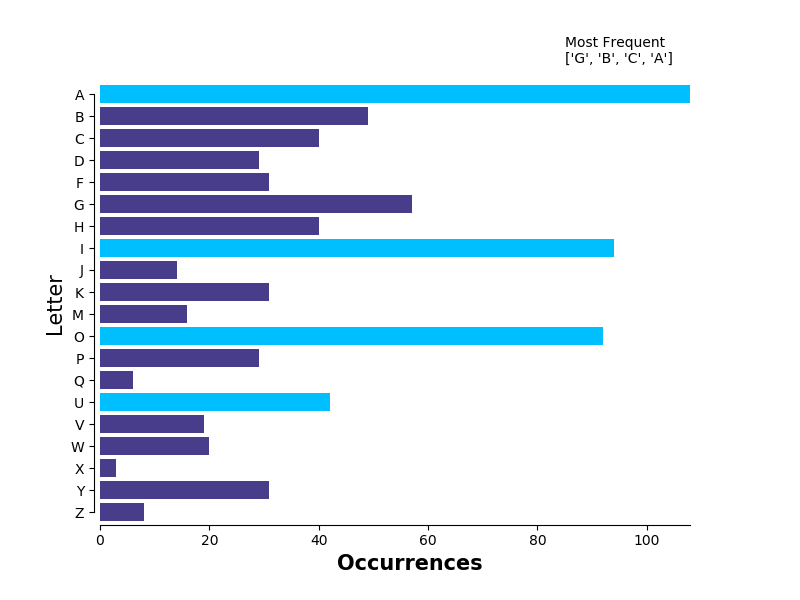
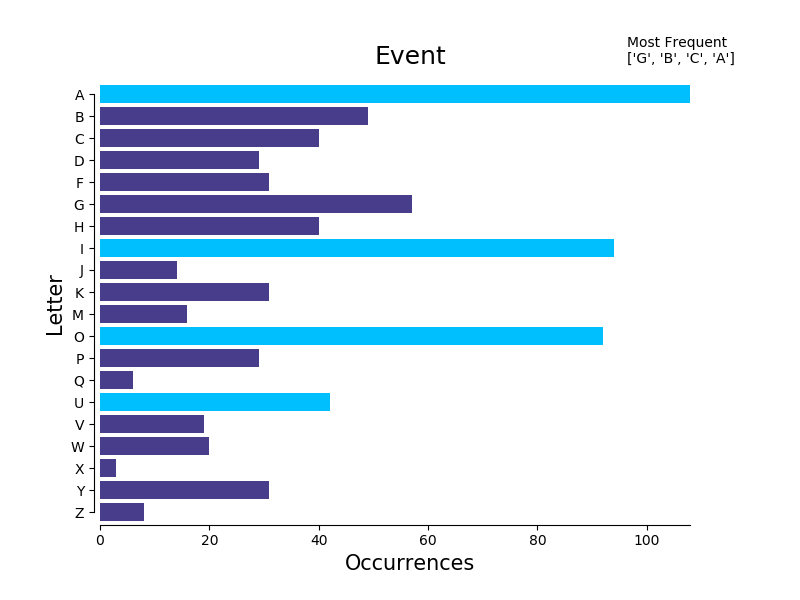
incorporated the letters graph into the main script

Changed region(s): [[0.6875, 0.06, 0.9062, 0.12], [0.4062, 0.93, 0.625, 0.96], [0.4688, 0.06, 0.5625, 0.12]]

diff --git a/analysis.py b/analysis.py
@@ -12,18 +12,18 @@ from collections import Counter
 
 df = pandas.read_csv('./data/clean_angelfire.csv')
 
-def category_occurence():
+def category_occurrence():
   count_list = df['Category'].value_counts()
   series = pandas.Series(count_list)
 
   return series
 
-def guessed_letter_occurence():
+def guessed_letter_occurrence():
   letters = df['Letters'].str.split(" ", n=3, expand=True)
   letters = letters.dropna()
   print(letters.stack().value_counts())
 
-def puzzle_letter_occurence():
+def print_overall_letter_occurrence():
   puzzles = df['Puzzle']
   alphabet = ['A', 'B', 'C', 'D', 'E', 'F', 'G', 'H', 'I', 'J', 'K', 'L', 'M', 'N', 'O', 'P', 'Q', 'R', 'S', 'T', 'U', 'V', 'W', 'X', 'Y', 'Z']
   count_list = []
@@ -31,8 +31,7 @@ def puzzle_letter_occurence():
   for letter in alphabet:
     count_list.append(puzzles.str.count(letter).sum())
 
-  series = pandas.Series(count_list, index=alphabet)
-  return series
+  print_barh_graph(alphabet, count_list, savename="Letters")
 
 def print_barh_graph(keys,values,savename="image.png",most_frequent_l=[]):
   # set the colors of the bars
@@ -55,16 +54,19 @@ def print_barh_graph(keys,values,savename="image.png",most_frequent_l=[]):
   # plot the plot
   plt.barh(keys,values,color=bar_colors)
 
+  # set the title
+  plt.title(savename, fontsize=18)
+
   # hide the top and right spines
   ax.spines['top'].set_visible(False)
   ax.spines['right'].set_visible(False)
 
   # set prettier bounds on y axis
-  ax.set_ylim((-1, 20))
+  ax.set_ylim((-1, len(keys)))
   y_placeholder = list(range(0,len(keys)))
   ax.set_yticks(y_placeholder)
   ax.set_yticklabels(keys)
-  ax.spines['left'].set_bounds(0, 19)
+  ax.spines['left'].set_bounds(0, (len(keys)-1))
 
   # set prettier bounds on x axis
   ax.spines['bottom'].set_smart_bounds(True)
@@ -75,15 +77,13 @@ def print_barh_graph(keys,values,savename="image.png",most_frequent_l=[]):
 
   # if this is a category plot, add a text with the 3 most common consonants and the most common vowel
   if len(most_frequent_l)>0: 
-    plt.text(0.75, 1.02, 'Most Frequent\n' + str(most_frequent_l), transform=plt.gca().transAxes)
+    plt.text(0.85, 1.02, 'Most Frequent\n' + str(most_frequent_l), transform=plt.gca().transAxes)
 
   # invert the axis so A is on top and Z is on the bottom
   plt.gca().invert_yaxis()
 
-  plt.savefig('graphs/'+savename)
-  
-def print_overall_letter_occurence():
-  series = puzzle_letter_occurence()
+  plt.savefig('graphs/'+savename+".png")
+  plt.close()
 
 def get_most_frequent_consonants(counter):
   consonants = ['B','C','D','F','G','H','J','K','L','M','N','P','Q','R','S','T','V','W','X','Y','Z']
@@ -112,7 +112,7 @@ def get_most_frequent_vowel(counter):
   
   return top_vowel
 
-def print_letter_occurence_per_puzzle():
+def print_letter_occurrence_per_puzzle():
   def remove_counter_character(char):
     if char in counter:
       counter.pop(char)
@@ -144,7 +144,9 @@ def print_letter_occurence_per_puzzle():
     count_list.sort()
     keys = [i[0] for i in count_list]
     values = [i[1] for i in count_list]
-    print_barh_graph(keys,values,savename=category+".png",most_frequent_l=most_frequent_l)
+    print_barh_graph(keys,values,savename=category,most_frequent_l=most_frequent_l)
 
-#print_overall_letter_occurence()
-print_letter_occurence_per_puzzle()
+#print_overall_letter_occurrence()
+#print_category_occurrence()
+#print_letter_occurrence_per_puzzle()
+category_occurrence()
